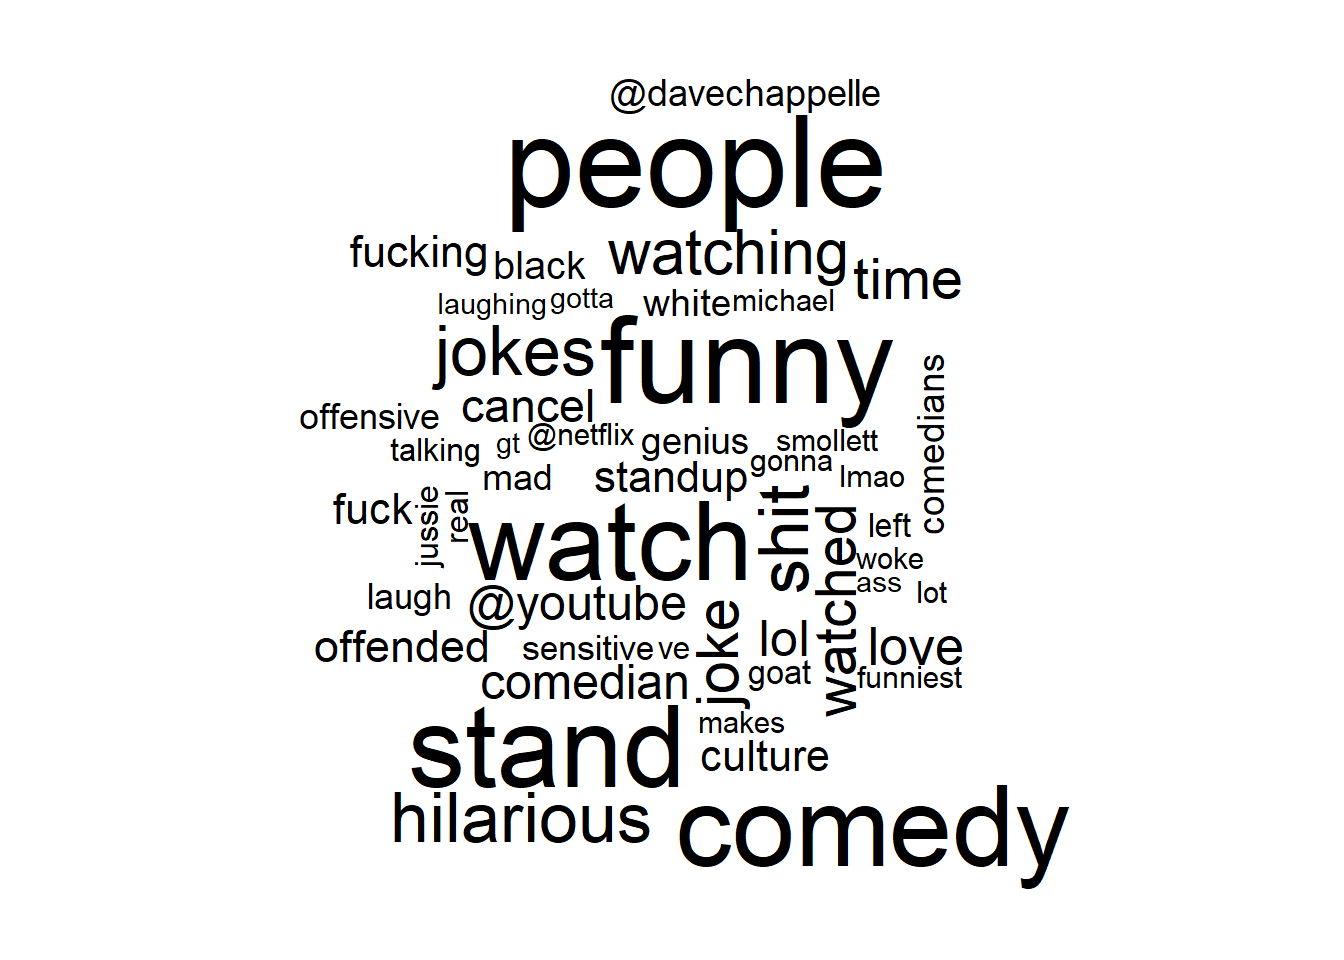
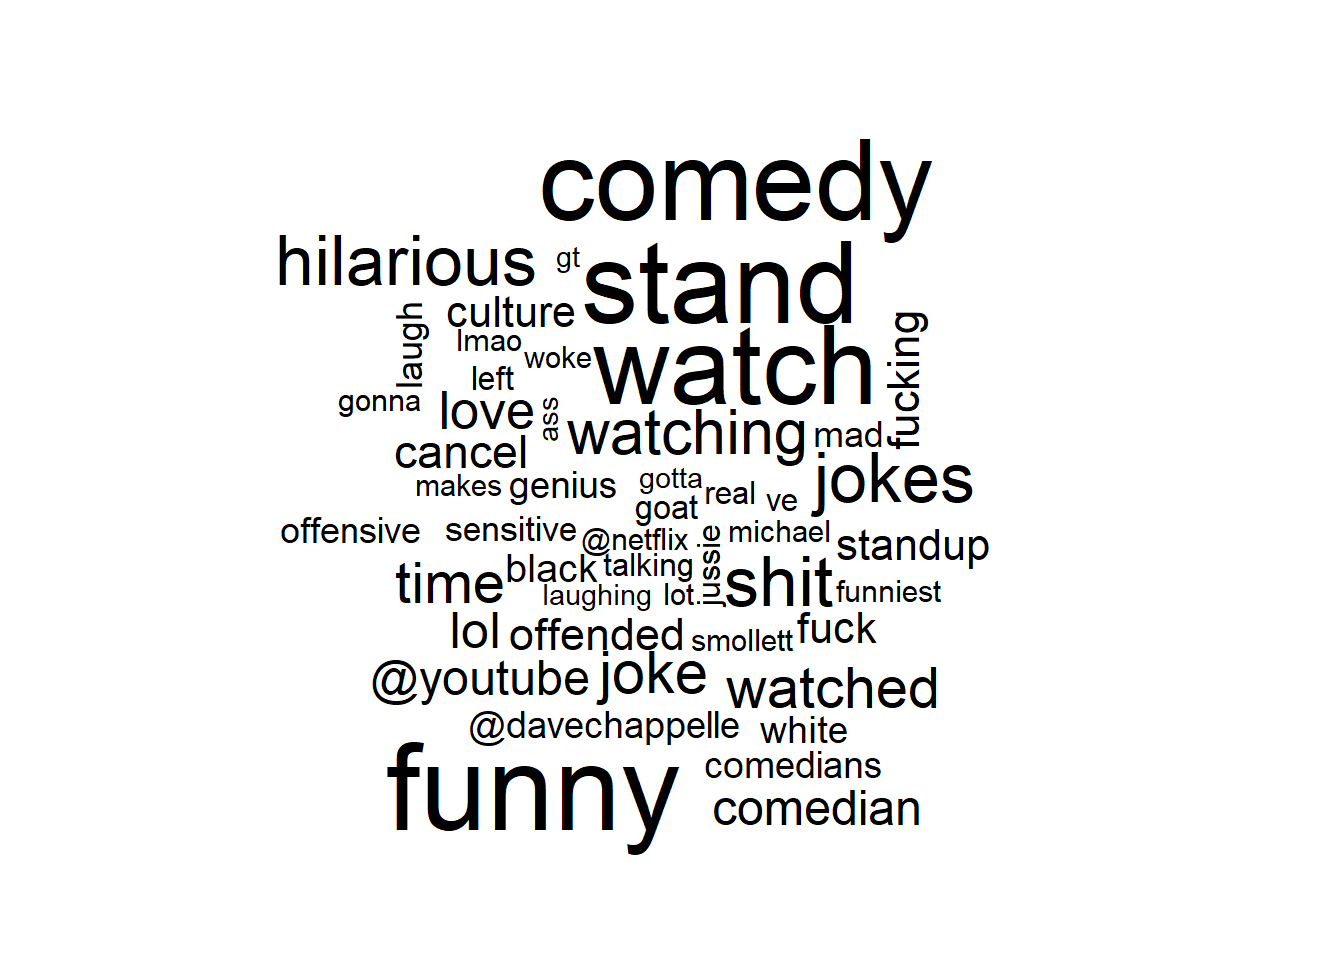
more

Changed region(s): [[0.1875, 0.0625, 0.8125, 0.9375]]

diff --git a/content/post/DCmentions.html b/content/post/DCmentions.html
@@ -19,6 +19,8 @@ output:
   count(word) %&gt;%
   with(wordcloud(word, n, max.words = 50))</code></pre>
 <pre><code>## Joining, by = &quot;word&quot;</code></pre>
+<pre><code>## Warning in wordcloud(word, n, max.words = 50): people could not be fit on
+## page. It will not be plotted.</code></pre>
 <p><img src="/post/DCmentions_files/figure-html/unnamed-chunk-1-1.png" width="672" /></p>
 <p>Just for future reference, if you’re tweeting about a standup special try not touse the words “stand up” or “standup” or “special”; makes for really uninteresting wordclouds. What I can infer from the wordcloud: People watching comedian @davechappelle’s stand up love funny jokes; Offensive jokes offended people.</p>
 <p>Here is a comparison wordcloud that shows the top negative and positive words. I used the ‘bing’ lexicon to identify negative and positive words. This is a funny lexicon which categorizes funny and joke as negative words!?</p>
